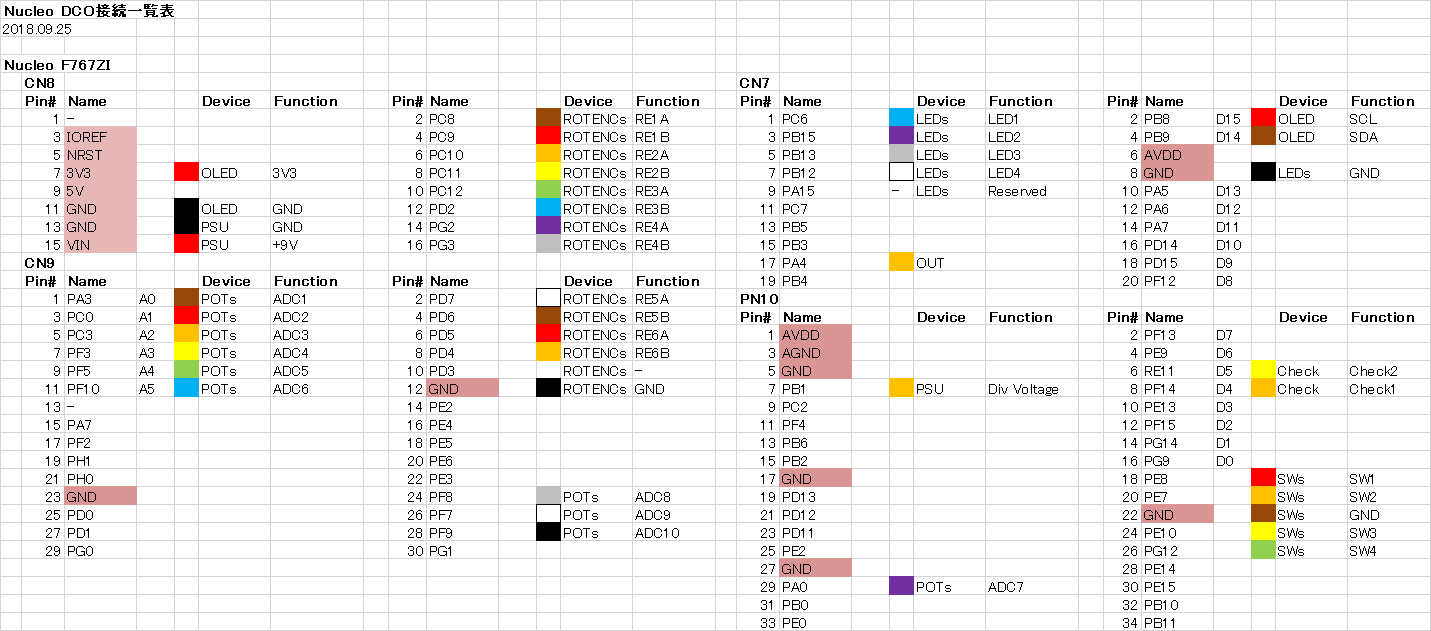
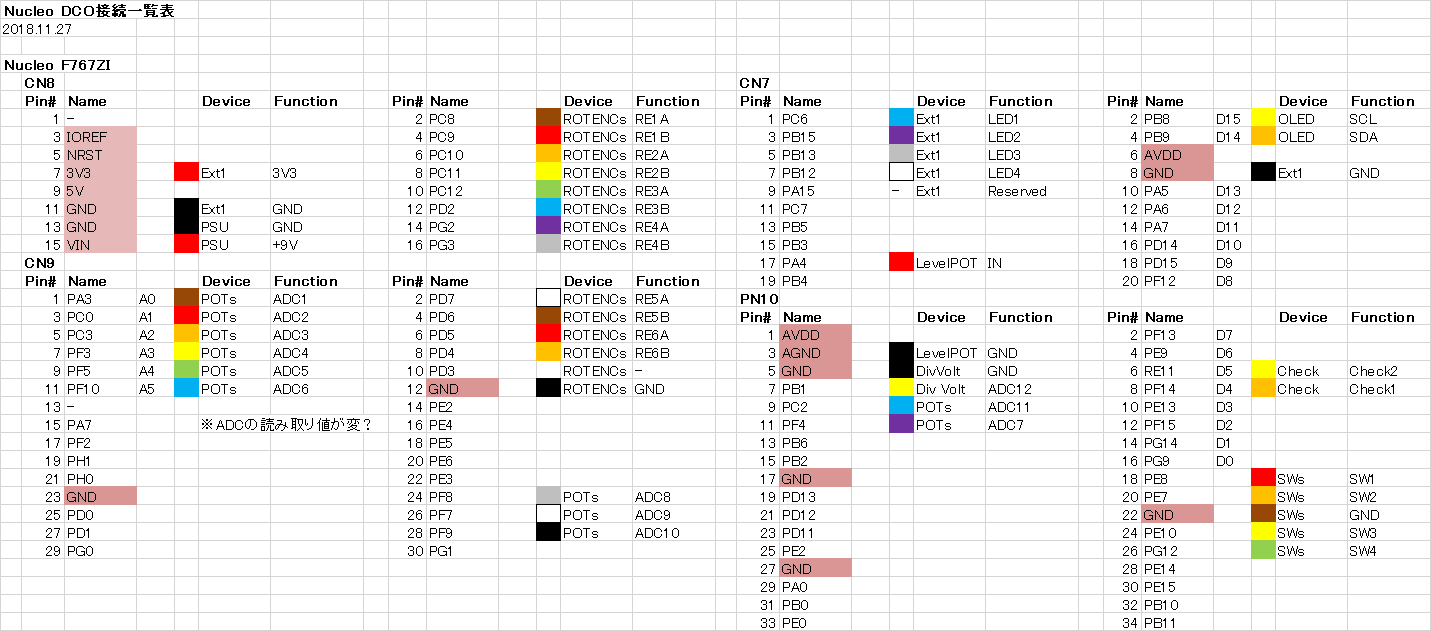
Update: Panel_Design

diff --git a/mbed/Nucleo_DCO_Test23/src/main.cpp b/mbed/Nucleo_DCO_Test23/src/main.cpp
@@ -95,12 +95,12 @@ InterruptIn Button3(PE_10, PullUp);
 InterruptIn Button4(PE_12, PullUp);
 
 // Rotary Encoder
-RotaryEncoder RotEnc1(PC_8,  PC_9,  0, FREQUENCY_RANGE_MAX - 1, 4);
-RotaryEncoder RotEnc2(PC_10, PC_11, 0, FREQUENCY_RANGE_MAX - 1, 4);
-RotaryEncoder RotEnc3(PC_12, PD_2,  0, FREQUENCY_RANGE_MAX - 1, 4);
-RotaryEncoder RotEnc4(PG_2,  PG_3,  0, WS_MAX - 1, WS_SIN);
-RotaryEncoder RotEnc5(PD_7,  PD_6,  0, WS_MAX - 1, WS_SIN);
-RotaryEncoder RotEnc6(PD_5,  PD_4,  0, WS_MAX - 1, WS_SIN);
+RotaryEncoder RotEnc1(PC_8,  PC_9,  0, WS_MAX - 1, WS_SIN);
+RotaryEncoder RotEnc2(PC_10, PC_11, 0, WS_MAX - 1, WS_SIN);
+RotaryEncoder RotEnc3(PC_12, PD_2,  0, WS_MAX - 1, WS_SIN);
+RotaryEncoder RotEnc4(PG_2,  PG_3,  0, FREQUENCY_RANGE_MAX - 1, 4);
+RotaryEncoder RotEnc5(PD_7,  PD_6,  0, FREQUENCY_RANGE_MAX - 1, 4);
+RotaryEncoder RotEnc6(PD_5,  PD_4,  0, FREQUENCY_RANGE_MAX - 1, 4);
 
 // LED
 DigitalOut Led1(PC_6);
@@ -526,12 +526,12 @@ void readButtonParameters()
 
 void readRotEncParameters()
 {
-	frequencyRange[0] = RotEnc1.getVal();
-	frequencyRange[1] = RotEnc2.getVal();
-	frequencyRange[2] = RotEnc3.getVal();
-	waveShape[0]      = RotEnc4.getVal();
-	waveShape[1]      = RotEnc5.getVal();
-	waveShape[2]      = RotEnc6.getVal();
+	waveShape[0]      = RotEnc1.getVal();
+	waveShape[1]      = RotEnc2.getVal();
+	waveShape[2]      = RotEnc3.getVal();
+	frequencyRange[0] = RotEnc4.getVal();
+	frequencyRange[1] = RotEnc5.getVal();
+	frequencyRange[2] = RotEnc6.getVal();
 }
 
 //-------------------------------------------------------------------------------------------------
